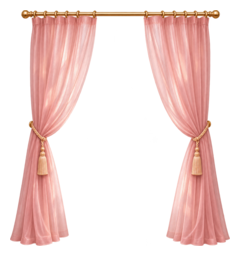
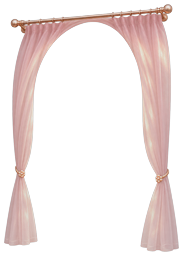
Replace Studio curtain with a window-fitted arched sheer.
New art follows the arched window (rod under the cornice, hems at the sill). Public profile only; no personal content.

diff --git a/art.js b/art.js
@@ -254,7 +254,7 @@ const SALON_DIR = 'assets/salon-v1/';
 /* Studio slots remeasured to each prop's natural aspect ratio and to painted contact points
    (window rod/sill, vanity under the mirror, vase foot on the tabletop, floor feet). Boxes fill
    the sprite exactly, so object-fit:contain no longer letterboxes and “drops” props in mid-air. */
-const SALON_LAYOUT = {rug:[79.56,189.94,200.88,75.08,0], curtain:[195.57,0.24,158.85,169.66,1], shelf:[3.98,32.07,74.09,184.97,2], mirror:[84.03,14.92,107.9,128.04,3],
+const SALON_LAYOUT = {rug:[79.56,189.94,200.88,75.08,0], curtain:[225.06,0,116.31,163,1], shelf:[3.98,32.07,74.09,184.97,2], mirror:[84.03,14.92,107.9,128.04,3],
   table:[82,121.25,150,96.75,4], lamp:[315,66.63,42.02,131.77,5], chair:[100,134.01,100.44,115.11,6], flowers:[188.28,88.03,40.03,45.25,7]};
 /* Reception (Reception Art v1): own empty-room image + nine props. Measured layout from assets/reception/layout.json (natural aspect ratios; verify/salon-areas.js
    checks these numbers equal that file). The single-file build embeds the base + @2x props in window.SALON_INLINE under the same ids. */

diff --git a/README.md b/README.md
@@ -4,4 +4,4 @@ Public web build of Atelier Lueur for phone testing. This folder contains only t
 
 Play: https://kutadgubiligkitab.github.io/atelier-lueur-play/
 
-Source commit: 0a79101 plus Studio decoration placement prototype (public profile, no personal content)
+Source commit: 0a79101 plus Studio window-fitted curtain (public profile, no personal content)
